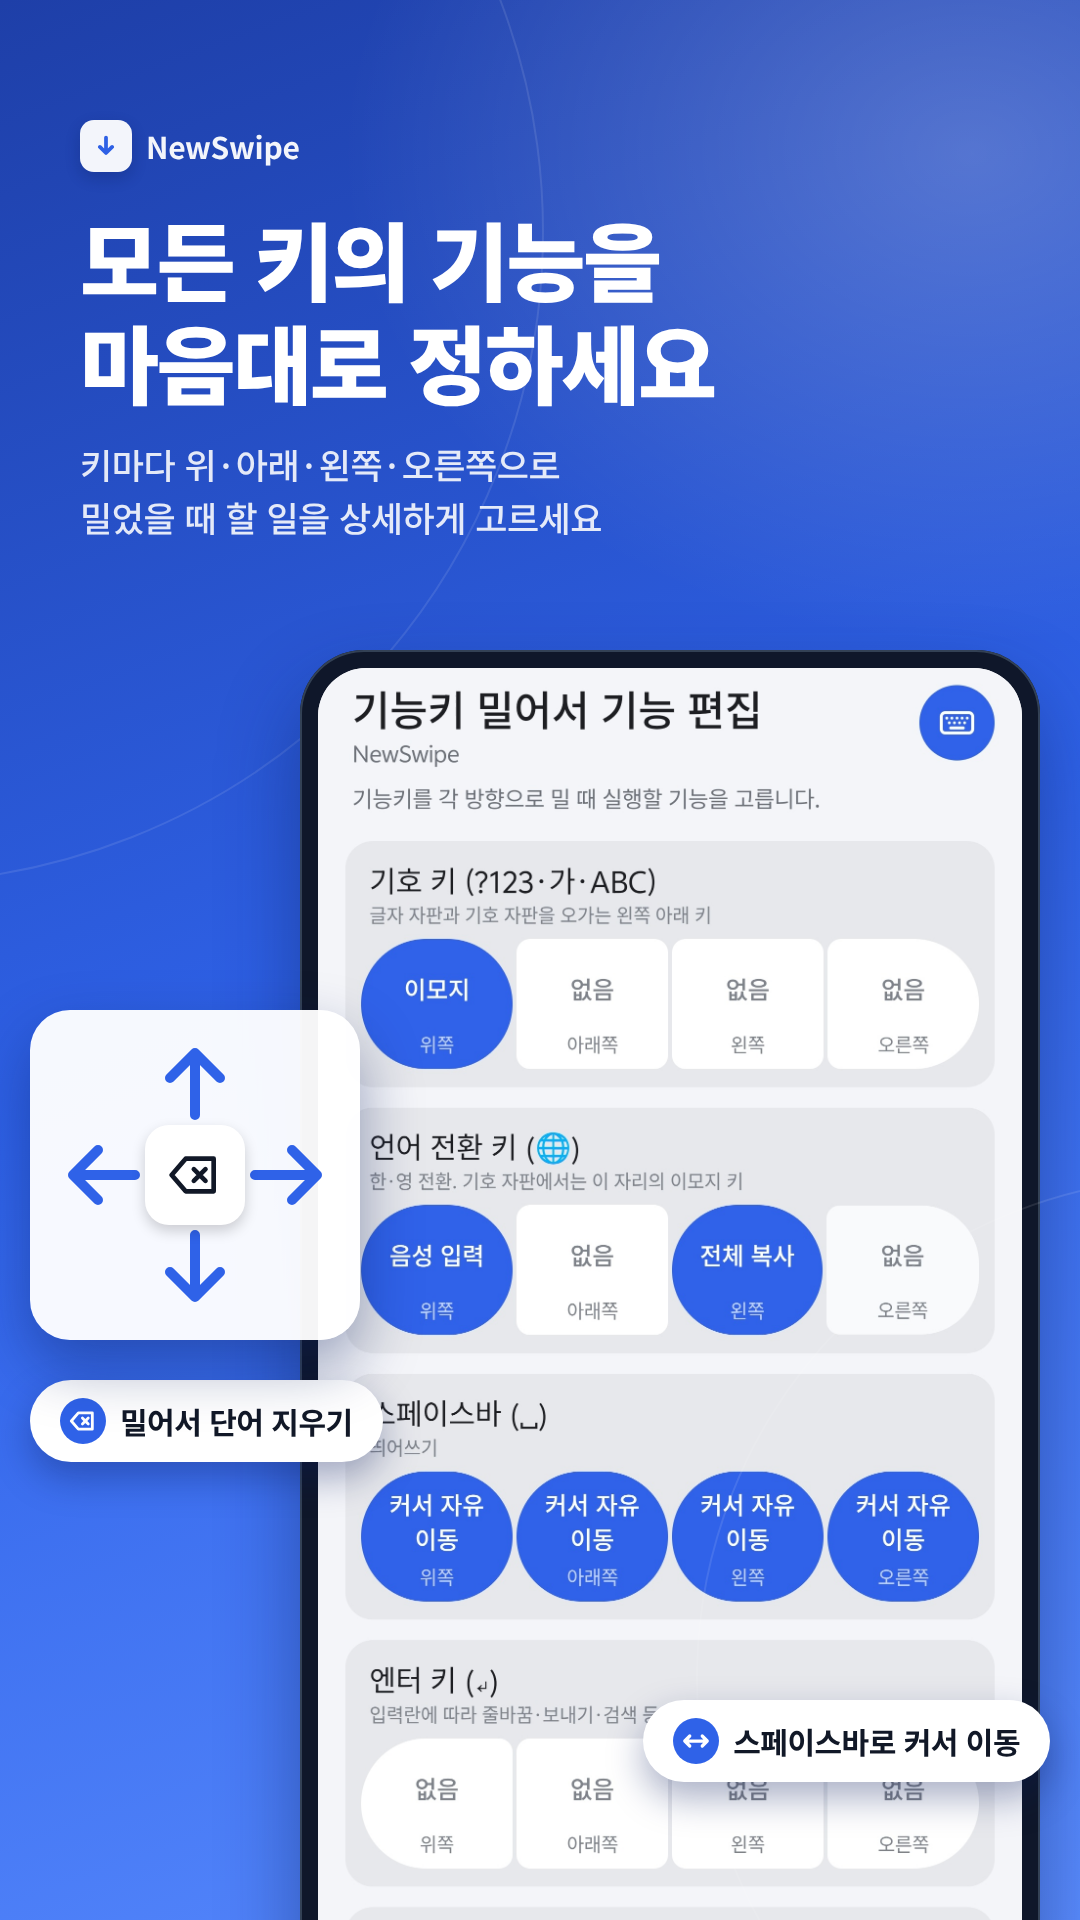
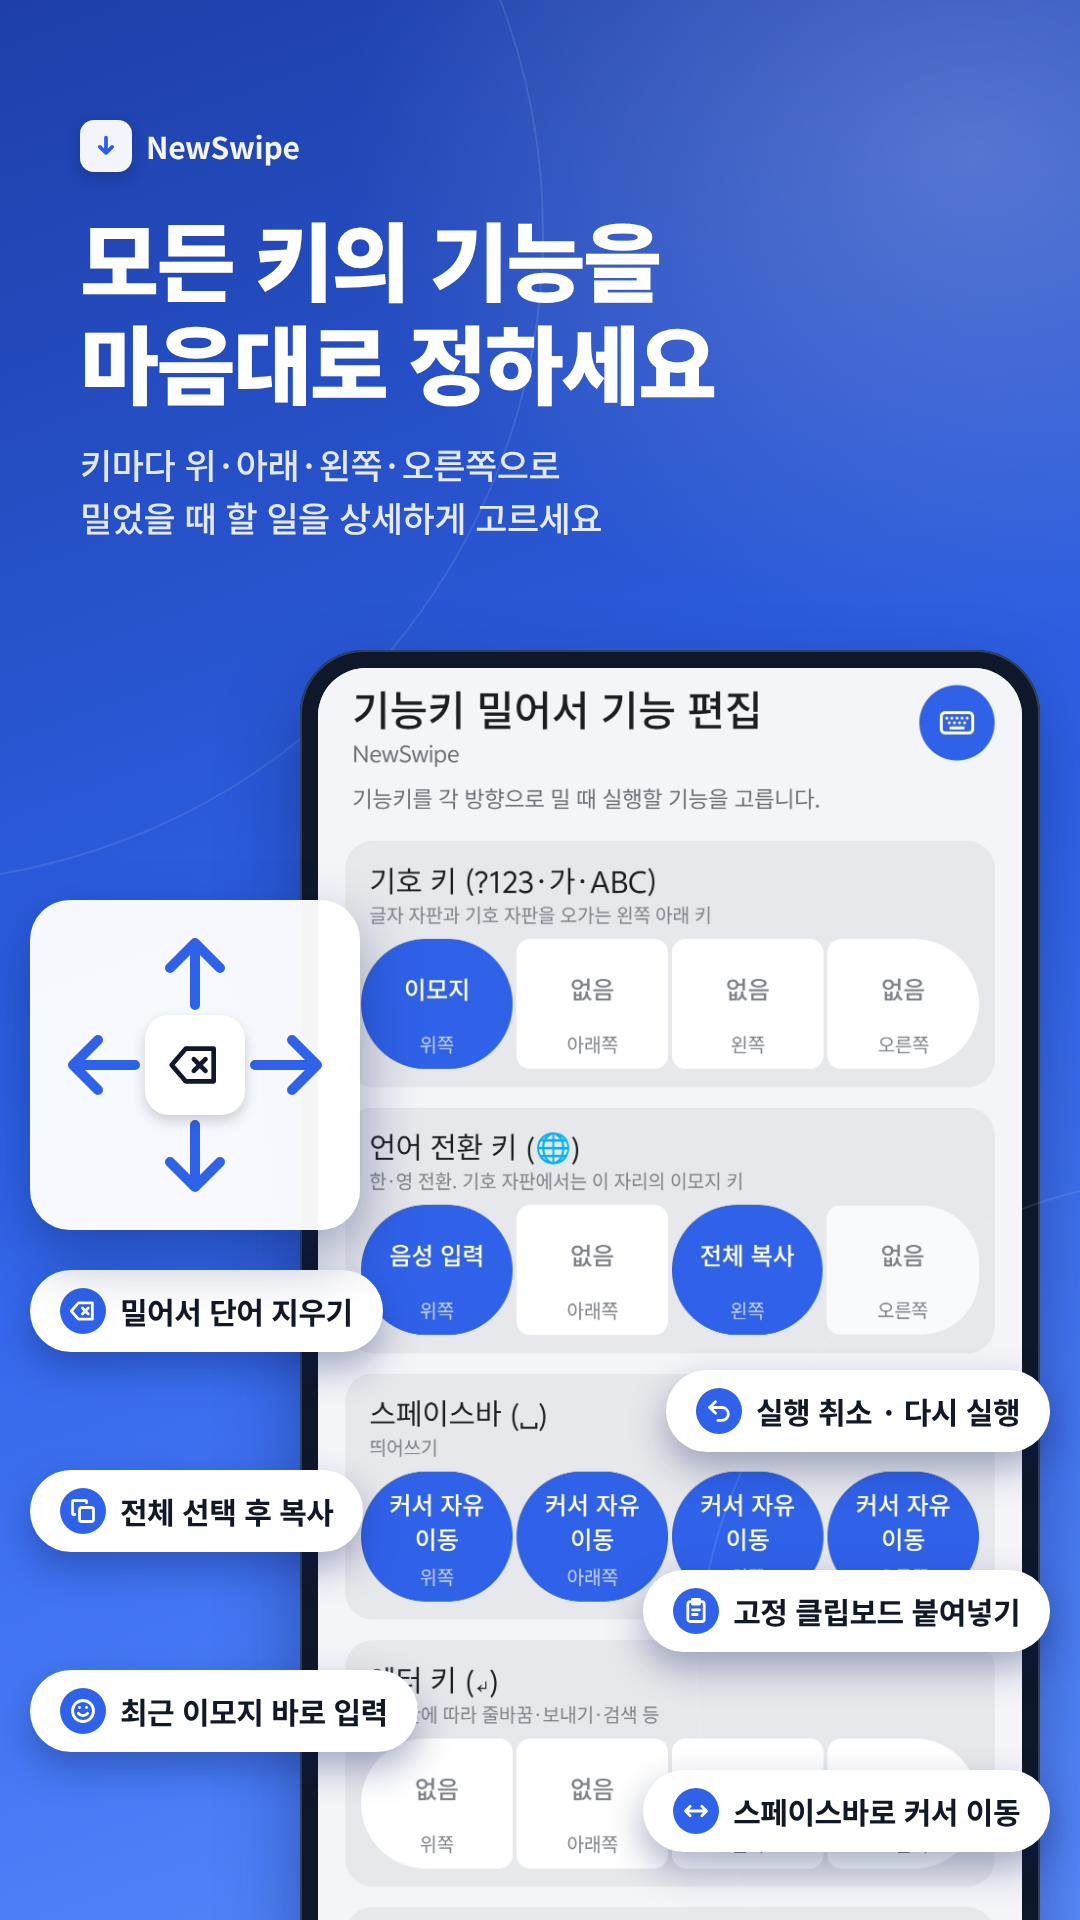
Show more swipe action examples in the key actions screenshot
Claude-Session: https://claude.ai/code/session_01AwdWyN99B5N53CxBWipQNM

Changed region(s): [[0.0306, 0.4688, 0.3972, 0.9375], [0.5806, 0.8125, 0.9778, 1.0], [0.6111, 0.7188, 0.9778, 0.7812]]

diff --git a/docs/play-store/screenshots/src/shots.html b/docs/play-store/screenshots/src/shots.html
@@ -107,7 +107,7 @@
   </div>
 
   <!-- direction pad -->
-  <div style="position:absolute; left:30px; top:1010px; width:330px; height:330px; z-index:5;
+  <div style="position:absolute; left:30px; top:900px; width:330px; height:330px; z-index:5;
               background:rgba(255,255,255,.96); border-radius:40px; box-shadow:0 26px 60px rgba(11,30,92,.4);">
     <svg width="330" height="330" viewBox="0 0 330 330" style="position:absolute; inset:0;">
       <g stroke="#2F62E8" stroke-width="10" stroke-linecap="round" stroke-linejoin="round" fill="none">
@@ -121,8 +121,12 @@
                 background:#fff; box-shadow:0 6px 14px rgba(0,0,0,.18); display:grid; place-items:center;
                 "><svg width="56" height="56" viewBox="0 0 24 24" fill="none" stroke="#111827" stroke-width="2" stroke-linejoin="round" stroke-linecap="round"><path d="M8 5h12v14H8l-6-7z"/><path d="M11.5 9.5l5 5M16.5 9.5l-5 5"/></svg></div>
   </div>
-  <div class="chip" style="right:30px; top:1700px;"><span class="dot"><svg width="30" height="30" viewBox="0 0 24 24" fill="none" stroke="#fff" stroke-width="2.6" stroke-linecap="round" stroke-linejoin="round"><path d="M3 12h18M7 8l-4 4 4 4M17 8l4 4-4 4"/></svg></span>스페이스바로 커서 이동</div>
-  <div class="chip" style="left:30px; top:1380px;"><span class="dot"><svg width="28" height="28" viewBox="0 0 24 24" fill="none" stroke="#fff" stroke-width="2.4" stroke-linejoin="round" stroke-linecap="round"><path d="M8 5h12v14H8l-6-7z"/><path d="M11.5 9.5l5 5M16.5 9.5l-5 5"/></svg></span>밀어서 단어 지우기</div>
+  <div class="chip" style="left:30px; top:1270px;"><span class="dot"><svg width="28" height="28" viewBox="0 0 24 24" fill="none" stroke="#fff" stroke-width="2.4" stroke-linecap="round" stroke-linejoin="round"><path d="M8 5h12v14H8l-6-7z"/><path d="M11.5 9.5l5 5M16.5 9.5l-5 5"/></svg></span>밀어서 단어 지우기</div>
+  <div class="chip" style="right:30px; top:1370px;"><span class="dot"><svg width="28" height="28" viewBox="0 0 24 24" fill="none" stroke="#fff" stroke-width="2.4" stroke-linecap="round" stroke-linejoin="round"><path d="M9 14L4 9l5-5"/><path d="M4 9h10.5a5.5 5.5 0 010 11H11"/></svg></span>실행 취소 · 다시 실행</div>
+  <div class="chip" style="left:30px; top:1470px;"><span class="dot"><svg width="28" height="28" viewBox="0 0 24 24" fill="none" stroke="#fff" stroke-width="2.4" stroke-linecap="round" stroke-linejoin="round"><rect x="9" y="9" width="12" height="12" rx="2"/><path d="M5 15H4a1 1 0 01-1-1V4a1 1 0 011-1h10a1 1 0 011 1v1"/></svg></span>전체 선택 후 복사</div>
+  <div class="chip" style="right:30px; top:1570px;"><span class="dot"><svg width="28" height="28" viewBox="0 0 24 24" fill="none" stroke="#fff" stroke-width="2.4" stroke-linecap="round" stroke-linejoin="round"><rect x="5" y="4" width="14" height="17" rx="2"/><path d="M9 2h6v4H9zM9 11h6M9 15h4"/></svg></span>고정 클립보드 붙여넣기</div>
+  <div class="chip" style="left:30px; top:1670px;"><span class="dot"><svg width="28" height="28" viewBox="0 0 24 24" fill="none" stroke="#fff" stroke-width="2.4" stroke-linecap="round" stroke-linejoin="round"><circle cx="12" cy="12" r="9"/><path d="M8 14s1.5 2 4 2 4-2 4-2"/><path d="M9 9h.01M15 9h.01"/></svg></span>최근 이모지 바로 입력</div>
+  <div class="chip" style="right:30px; top:1770px;"><span class="dot"><svg width="28" height="28" viewBox="0 0 24 24" fill="none" stroke="#fff" stroke-width="2.4" stroke-linecap="round" stroke-linejoin="round"><path d="M3 12h18M7 8l-4 4 4 4M17 8l4 4-4 4"/></svg></span>스페이스바로 커서 이동</div>
 </section>
 
 <!-- ============ 4. 자동 수정 ============ -->
